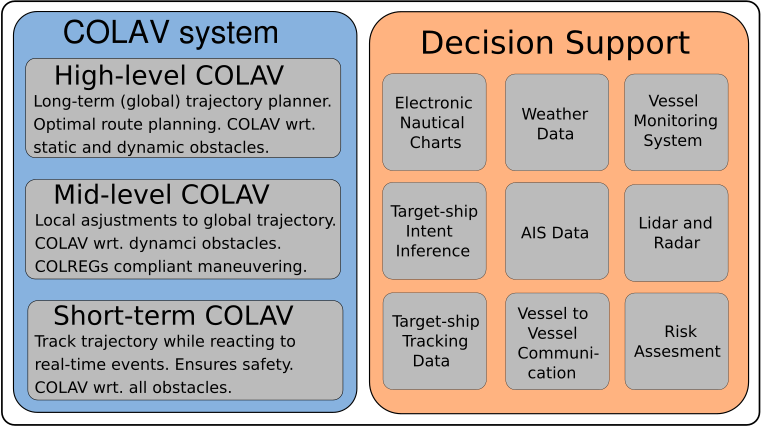
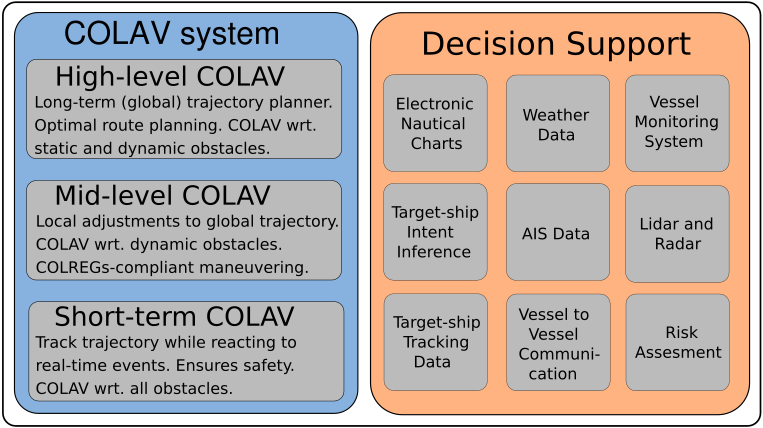
Update 2021-04-22-maritime-colav-for-ferries.md and three_layer_structure.png

diff --git a/_posts/2021-04-22-maritime-colav-for-ferries.md b/_posts/2021-04-22-maritime-colav-for-ferries.md
@@ -19,20 +19,20 @@ A lot of work already exists on maritime collision avoidance, but very little is
 |<img src="{{site.url}}/assets/milliAmpere_2_on_water_during_initial_tests.png" width="650"> |
 |*milliAmpere 2 during initial sea-trials.*|
 
-This projects has a focus on application, where it is of interest that the resulting systems or algorithms are feasible in a real-world application. NTNU currently owns two prototypes on fully electric autonomous passenger ferries, the milliAmpere (video above) and milliAmpere 2 (Picture above). The candidate is therefore encouraged to aim towards full-scale experiments towards the end of the work (Masteroppgave). The milliAmpere platform runs an on-board computer with Ubuntu and robot operating system (ROS) which makes it simple to interface new algorithms with the existing systems such as navigation, target-tracking and dynamic positioning for trajectory tracking. 
+This project has a focus on applied solutions, where it is of interest that the resulting systems or algorithms are feasible in a real-world application. NTNU currently owns two prototypes on fully electric autonomous passenger ferries, the milliAmpere (video on top) and milliAmpere 2 (picture above). The candidate is therefore encouraged to aim towards performing full-scale experiments towards the end of the work (Masteroppgave). The milliAmpere platform runs an on-board computer with Ubuntu and robot operating system (ROS) which makes it simple to interface new algorithms with the existing systems such as navigation, target-tracking and dynamic positioning for trajectory tracking. 
 
 Due to the complexity of the task of safe and collision-free maneuvering in cluttered environments, several methods and algorithms for trajectory-planning and collision avoidance are often combined into a hybrid structure, where each planner handles different aspects of the task. An example of such a structure is shown below. 
 
 |<img src="{{site.url}}/assets/three_layer_structure.png" width="650"> |
-|*Three layered colav structure with examples of decision-support systems that can be used in one or more of the planners.*|
+|*Three layered COLAV structure with examples of decision-support systems that can be used in one or more of the planners.*|
 
-It is mainly in the High-level colav that we want to put the focus of this task, but the problem formulations is open to input from the candidate, also on work in lower levels of the COLAV system. 
+It is mainly in the High-level COLAV that we want to put the focus of this task, but the problem formulation is open to input from the candidate, also on work in lower levels of the COLAV system. 
 
-Due to the extent of this problem, this task is open for up to two candidates working on separate parts of the problem. Cooperation between the candidates is no a requirement, yet it is encouraged if appropriate. 
+**Due to the extent of this task, it is open for up to two candidates working on separate parts of the task.** Cooperation between the candidates is not a requirement, yet it is encouraged if appropriate.
 
 ## Previous work
-In (Thyri 2019, 2020), a COLAV method for passenger ferries operating in urban environments is described. In short, the method plans a velocity-profile for a predefined path so that the resulting trajectory is collision free regarding dynamic obstacles. The method is simple and intuitive, and is tested through full-scale experiments on simple canal-crossing operations. For more complex operations, this method comes in short, due to its simplicity. Over the previous year, a Master student has worked on extending the principles of the method from using a predefined path, to a predefined area, effectively increasing the number of available manuevers to the trajectory planner.
-A alternative for this project is to build on this work, to make a graph-based global trajectory planner that considers both static and dynamic obstacles. This is a high level colav, where a trajectory is planned from the current position of the vessel to the transit-destination, where considerations on static and dynamic obstacles are included. The co-supervisor Emil Thyri has also done some work in both mid-level and short-term colav, which can be combined to get a more complete system in simulations and experiments. 
+In (Thyri 2019, 2020), a COLAV method for passenger ferries operating in urban environments is described. In short, the method plans a velocity-profile for a predefined path so that the resulting trajectory is collision free regarding dynamic obstacles. The method is simple and intuitive, and is tested through full-scale experiments on simple canal-crossing operations. For more complex operations, this method comes in short, due to its simplicity. During the autumn of 2020 and spring of 2021, a Master student has worked on extending the principles of the method from using a predefined path, to a predefined area, effectively increasing the number of available manuevers to the trajectory planner.
+A alternative for this project is to build on this work, to make a graph-based global trajectory planner that considers both static and dynamic obstacles. This is a high level COLAV, where a trajectory is planned from the current position of the vessel to the transit-destination, where considerations on static and dynamic obstacles are included. The co-supervisor Emil Thyri has also done some work in both mid-level and short-term COLAV, which can be combined to get a more complete system in simulations and experiments. 
 
 
 <!-- Some previous work 
@@ -51,21 +51,21 @@ Problems and challenges that are unique with the specific operational environmen
 ## Prerequisites
 This work is a combination of both theory and practice.  The candidate should therefore favour both theoretical and experimental work. Subjects within guidance and control of marine vessels such as [TTK4190 Fartøysstyring] is advantageous, but not a requirement.
 
-## Proposed tasks for the 5th year project
+## Proposed tasks for the 5th year project (autumn 2021)
 * Identify problems and challenges that are unique with the specific operational environment, compared to open-sea operations. 
 * Do a literature search on existing methods for maritime collision avoidance, and identify which techniques are suitable for the specific task.
 * Implement the method. Start of with the simplest implementation and build from there. 
 * Evaluate and show proof of concept of the method through simulations.
 * Write report.
 
-## Proposed tasks for the Masters thesis
+## Proposed tasks for the Masters thesis (spring 2022)
 * Continue unfinished project work.
 * Improve method by introducing passenger comfort and COLREGs considerations.
 * Make preparations for and conduct full-scale experiments in Trondheim harbor.
 * Write report.
 
 ## Contact
-Write a short email where you explain your motivation for this work as well as about your background, and send it to [Morten Breivik] and  [Emil Thyri]. We will then arrange a Skype meeting with you to discuss the task.
+Write a short email where you explain your motivation for this work as well as about your background, and send it to [Morten Breivik] and  [Emil Thyri]. We will then arrange a Teams meeting with you to discuss the task.
 
 ## References
 * Thyri, E.H. (2019): “[A Path-Velocity Decomposition Approach to Collision Avoidance for Autonomous Passenger Ferries](https://ntnuopen.ntnu.no/ntnu-xmlui/handle/11250/2625711)”, MSc thesis, NTNU. 
